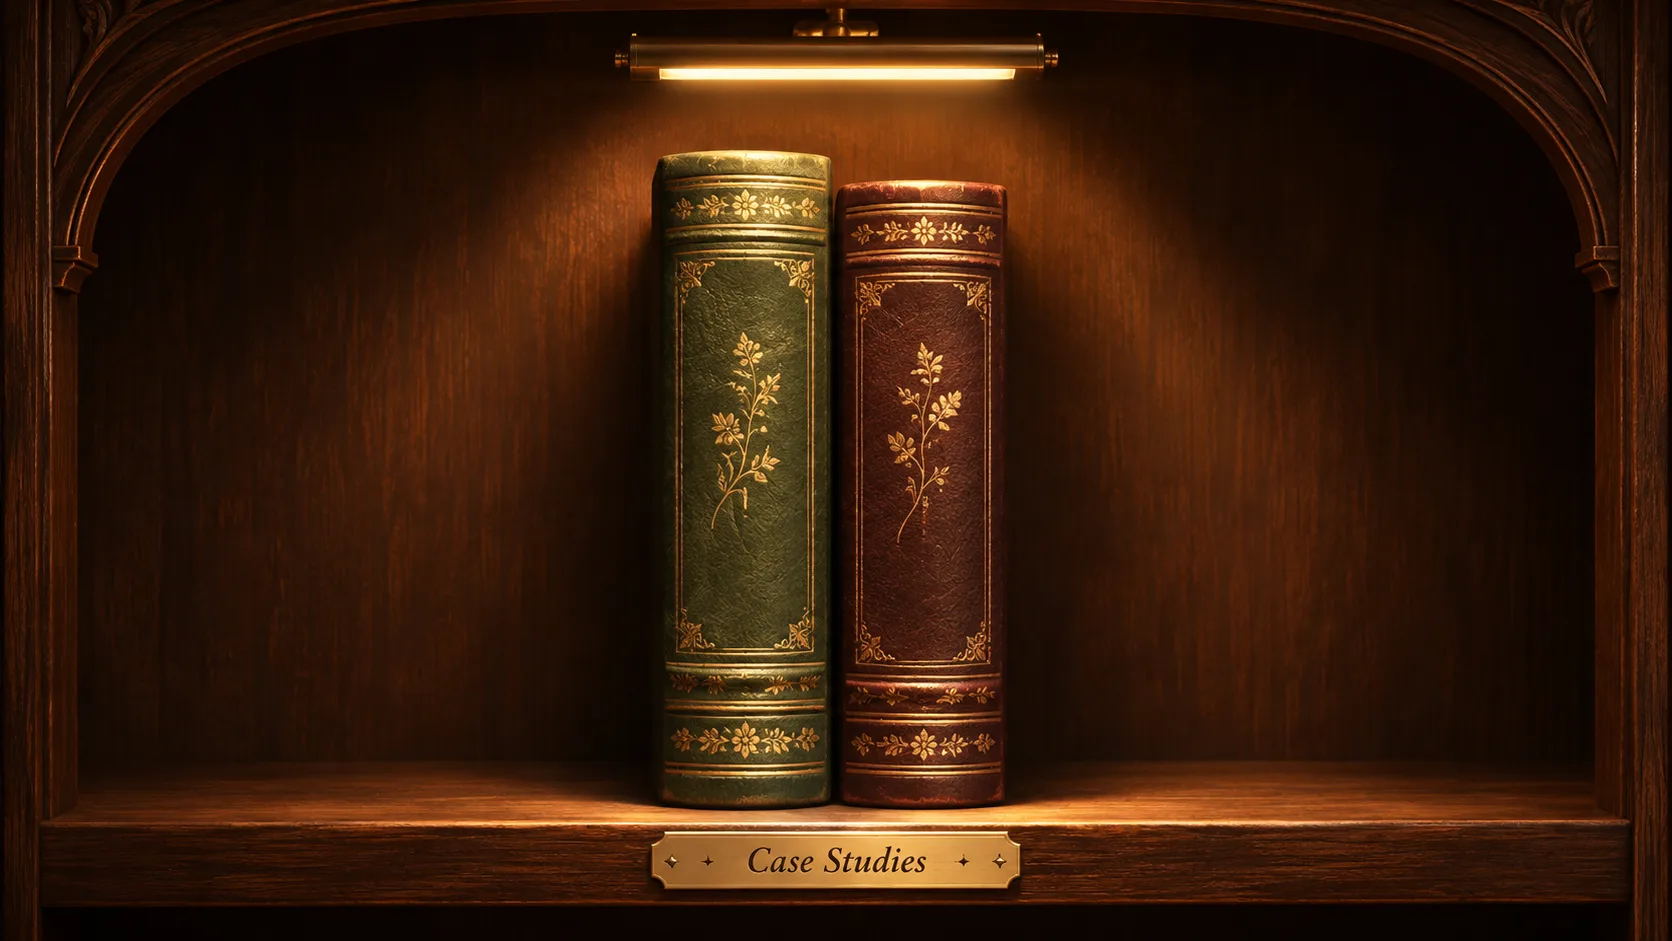
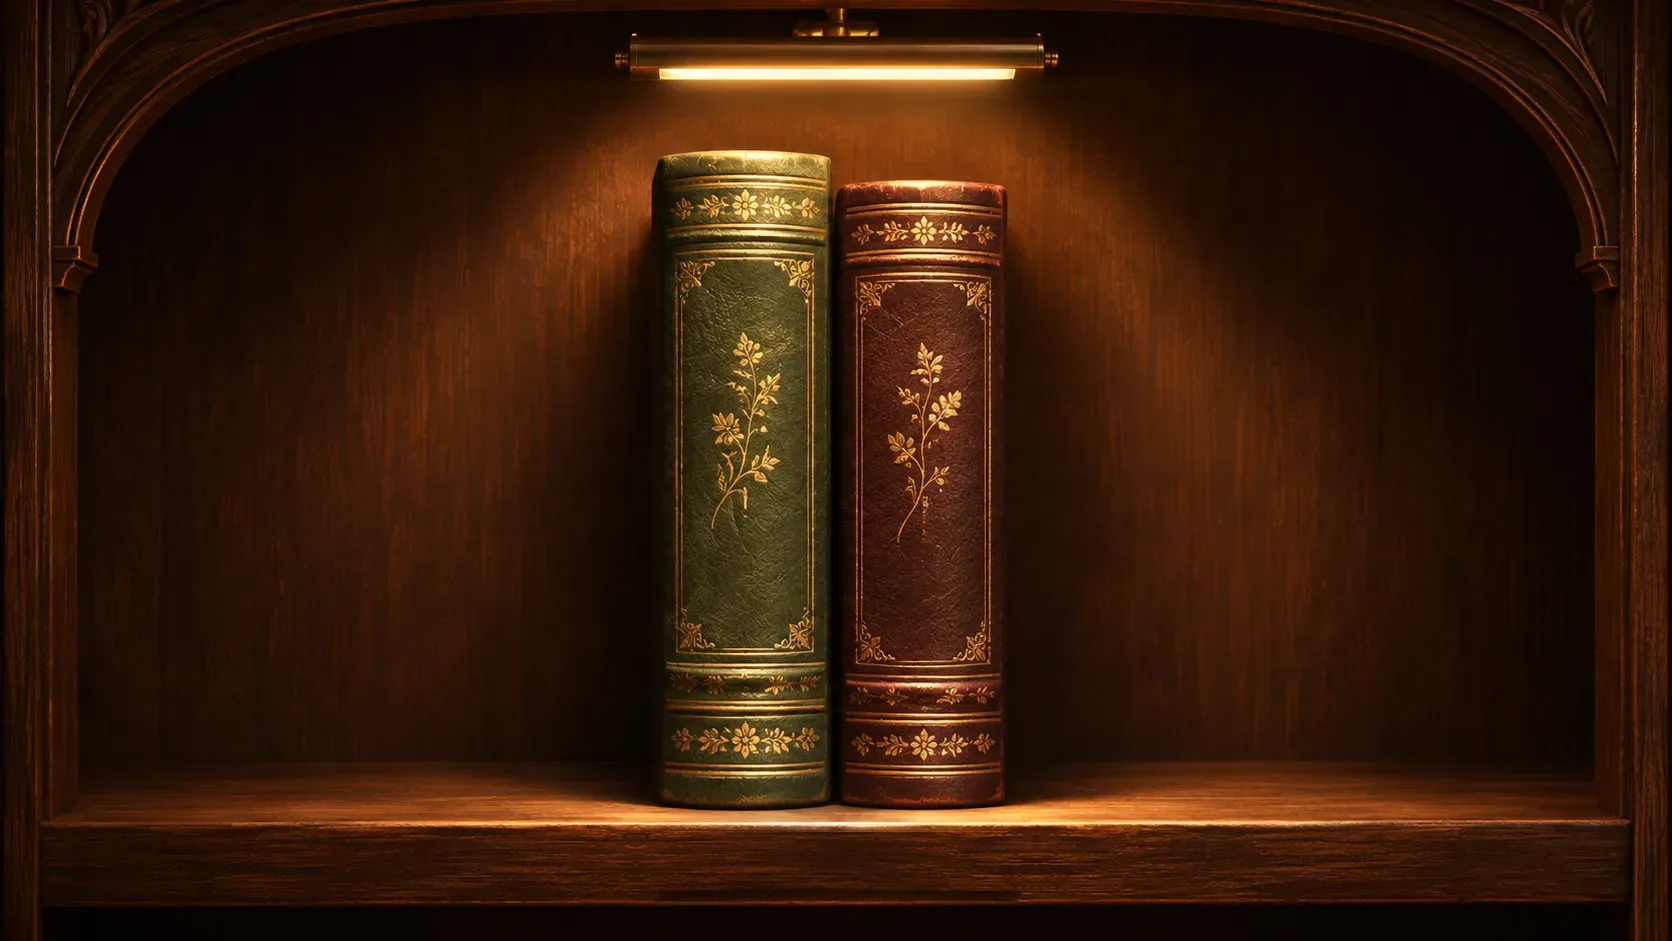
Add shelf plaques per book and link the homepage tag to the shelf
Paint the "Case Studies" plaque out of the shelf photo and set a brass
plaque under each book instead. On the homepage, the Case Studies tag is
bigger, reads "Select book or visit shelf" in an upright face, and now
links to the shelf. Trim the About page's lede and the journal intro.

Changed region(s): [[0.3732, 0.8629, 0.622, 0.9554]]

diff --git a/src/components/study/PhotoStudy.tsx b/src/components/study/PhotoStudy.tsx
@@ -242,17 +242,27 @@ function PhotoHint({ stage, at, hint, children }: { stage: Stage; at: Point; hin
 /**
  * A brass museum tag on the shelf under the case studies: always there, so
  * it's clear the two books are the way into the work. Brightens while either
- * book is under the hand. Decorative; the books themselves are the buttons.
+ * book is under the hand. Clicking it goes to the shelf (Work) page.
  */
-function ShelfTag({ stage, at }: { stage: Stage; at: Point }) {
+function ShelfTag({ stage, at, onActivate }: { stage: Stage; at: Point; onActivate: () => void }) {
 	const lit = useStudy((s) => s.hovered?.startsWith('book:') ?? false);
 	const [x, y] = px(stage, at);
 	return (
-		<p className={`photo-tag${lit ? ' is-lit' : ''}`} style={{ left: x, top: y }} aria-hidden="true">
-			<span className="photo-tag__arrow">↑</span>
+		<a
+			href="/work"
+			className={`photo-tag${lit ? ' is-lit' : ''}`}
+			style={{ left: x, top: y }}
+			aria-label="Case studies: visit the shelf"
+			onClick={(event) => {
+				if (event.metaKey || event.ctrlKey || event.shiftKey || event.button !== 0) return;
+				event.preventDefault();
+				onActivate();
+			}}
+		>
+			<span className="photo-tag__arrow" aria-hidden="true">↑</span>
 			<span className="photo-tag__title">Case Studies</span>
-			<span className="photo-tag__hint">Select a book to read</span>
-		</p>
+			<span className="photo-tag__hint">Select book or visit shelf</span>
+		</a>
 	);
 }
 
@@ -551,7 +561,14 @@ export default function PhotoStudy() {
 										<PhotoHint stage={stage} hint="book" at={[50, 64]}>
 											Explore the study — the book is your guide
 										</PhotoHint>
-										<ShelfTag stage={stage} at={studyPhoto.shelfTag} />
+										<ShelfTag
+											stage={stage}
+											at={studyPhoto.shelfTag}
+											onActivate={() => {
+												setMessage('Turning to the shelf…');
+												depart({ kind: 'shelf' }, '/work', TIMING.shelf);
+											}}
+										/>
 										<PhotoHint stage={stage} hint="lamp" at={[26.5, 45]}>
 											Adjust the lighting
 										</PhotoHint>

diff --git a/src/components/study/photo.css b/src/components/study/photo.css
@@ -576,7 +576,8 @@
 	display: flex;
 	flex-direction: column;
 	align-items: center;
-	padding: 4px 12px 5px;
+	gap: 2px;
+	padding: 7px 20px 8px;
 	border: 1px solid #8a6a3c;
 	border-radius: 2px;
 	background: linear-gradient(#e8cf94, #b08d57);
@@ -586,13 +587,21 @@
 	color: #2a1c13;
 	text-align: center;
 	white-space: nowrap;
+	text-decoration: none;
 	transform: translate(-50%, 0);
-	pointer-events: none;
+	cursor: pointer;
 	transition:
 		box-shadow 400ms ease,
 		filter 400ms ease;
 }
 
+.photo-tag:focus-visible {
+	outline: 2px solid #f0c070;
+	outline-offset: 3px;
+}
+
+.photo-tag:hover,
+.photo-tag:focus-visible,
 .photo-tag.is-lit {
 	filter: brightness(1.12);
 	box-shadow:
@@ -626,7 +635,7 @@
 
 .photo-tag__title {
 	font-family: var(--font-display);
-	font-size: 13px;
+	font-size: 16px;
 	font-weight: 700;
 	letter-spacing: 0.16em;
 	text-transform: uppercase;
@@ -635,10 +644,10 @@
 
 .photo-tag__hint {
 	font-family: var(--font-body);
-	font-size: 12px;
-	font-style: italic;
-	line-height: 1.2;
-	color: #4a3424;
+	font-size: 15px;
+	font-weight: 500;
+	line-height: 1.25;
+	color: #3a2818;
 }
 
 [data-leaving] .photo-tag {
